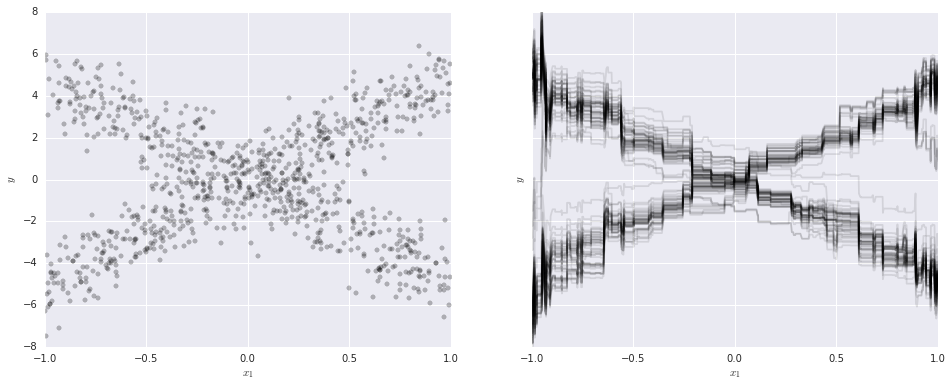
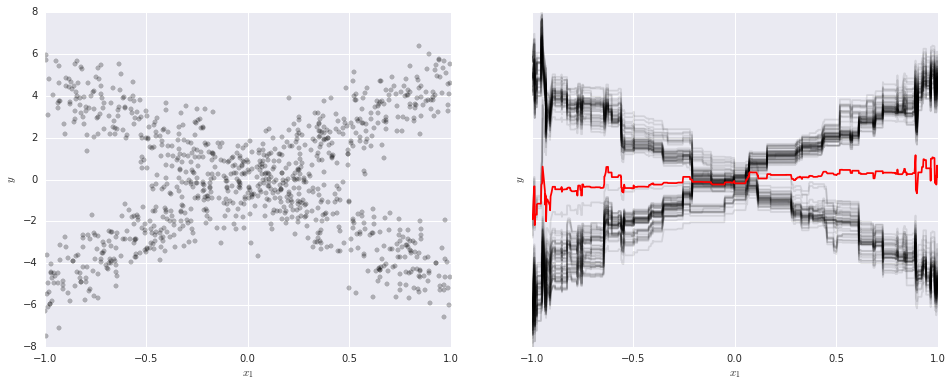
Add option to plot PDP

Changed region(s): [[0.5483, 0.124, 1.0, 0.8372], [0.9748, 0.7752, 1.0, 0.8062]]

diff --git a/pycebox/ice.py b/pycebox/ice.py
@@ -40,9 +40,9 @@ def ice(data, column, predict, num_grid_points=None):
     return ice_df
 
 
-def ice_plot(ice_data, frac_to_plot=1., x_quantile=False,
+def ice_plot(ice_data, frac_to_plot=1., x_quantile=False, plot_pdp=False,
              centered=False, centered_quantile=0.,
-             ax=None, **kwargs):
+             ax=None, pdp_kwargs=None, **kwargs):
     """
     Plot the given ICE data
 
@@ -51,6 +51,9 @@ def ice_plot(ice_data, frac_to_plot=1., x_quantile=False,
 
     If `x_quantile` is `True`, the plotted x-coordinates are quantiles of
     `ice_data.index`.
+
+    If `plot_pdp` is `True`, plot the partial dependence estimate.  When this
+    is `True`, passes `pdp_kwargs` to plot(...).
 
     If `centered` is true, each ICE curve is is centered to zero at the
     percentile (closest to) `centered_quantile`.
@@ -70,6 +73,9 @@ def ice_plot(ice_data, frac_to_plot=1., x_quantile=False,
         centered_quantile_iloc = np.abs(quantiles - centered_quantile).argmin()
         ice_data = ice_data - ice_data.iloc[centered_quantile_iloc]
 
+    if plot_pdp:
+        pdp_data = pdp(ice_data)
+
     if frac_to_plot < 1.:
         n_cols = ice_data.shape[1]
         icols = np.random.choice(n_cols, size=frac_to_plot * n_cols, replace=False)
@@ -79,6 +85,10 @@ def ice_plot(ice_data, frac_to_plot=1., x_quantile=False,
         _, ax = plt.subplots()
 
     ax.plot(x, ice_data, **kwargs)
+
+    if plot_pdp:
+        pdp_kwargs = pdp_kwargs or {}
+        ax.plot(x, pdp_data, **pdp_kwargs)
 
     return ax
 
